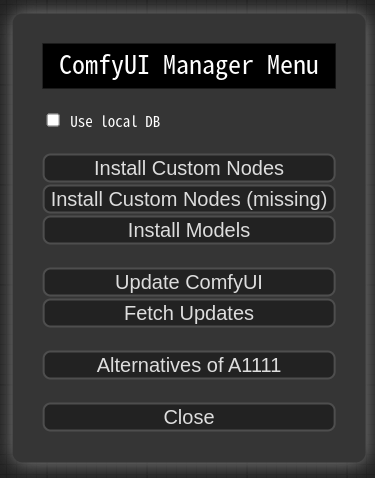
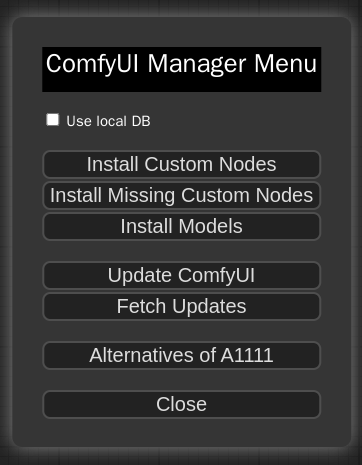
add filter feature improve missing node detector

diff --git a/js/comfyui-manager.js b/js/comfyui-manager.js
@@ -238,6 +238,14 @@ class CustomNodesInstaller extends ComfyDialog {
 		for(let i in this.grid_rows) {
 			let data = this.grid_rows[i].data;
 			let content = data.author.toLowerCase() + data.description.toLowerCase() + data.title.toLowerCase();
+
+			if(this.filter && this.filter != '*') {
+				if(this.filter != data.installed) {
+					this.grid_rows[i].control.style.display = 'none';
+					continue;
+				}
+			}
+
 			if(keyword == "")
 				this.grid_rows[i].control.style.display = null;
 			else if(content.includes(keyword)) {
@@ -252,6 +260,17 @@ class CustomNodesInstaller extends ComfyDialog {
 	async filter_missing_node(data) {
 		const mappings = await getCustomnodeMappings();
 
+
+		// build regex->url map
+		const regex_to_url = [];
+		for (let i in data) {
+			if(data[i]['nodename_pattern']) {
+				let item = {regex: new RegExp(data[i].nodename_pattern), url: data[i].files[0]};
+				regex_to_url.push(item);
+			}
+		}
+
+		// build name->url map
 		const name_to_url = {};
 		for (const url in mappings) {
 			const names = mappings[url];
@@ -273,6 +292,13 @@ class CustomNodesInstaller extends ComfyDialog {
 				const url = name_to_url[node_type];
 				if(url)
 					missing_nodes.add(url);
+				else {
+					for(let j in regex_to_url) {
+						if(regex_to_url[j].regex.test(node_type)) {
+							missing_nodes.add(regex_to_url[j].url);
+						}
+					}
+				}
 			}
 		}
 
@@ -491,29 +517,71 @@ class CustomNodesInstaller extends ComfyDialog {
 		this.element.appendChild(panel);
 	}
 
+	createFilterCombo() {
+		let combo = document.createElement("select");
+
+		combo.style.cssFloat = "left";
+		combo.style.fontSize = "14px";
+		combo.style.padding = "4px";
+		combo.style.background = "black";
+		combo.style.marginLeft = "2px";
+		combo.style.width = "199px";
+		combo.id = `combo-manger-filter`;
+		combo.style.borderRadius = "15px";
+
+		let items =
+			[
+				{ value:'*', text:'Filter: all' },
+				{ value:'Disabled', text:'Filter: disabled' },
+				{ value:'Update', text:'Filter: update' },
+				{ value:'True', text:'Filter: installed' },
+				{ value:'False', text:'Filter: not-installed' },
+			];
+
+		items.forEach(item => {
+			const option = document.createElement("option");
+			option.value = item.value;
+			option.text = item.text;
+			combo.appendChild(option);
+		});
+
+		let self = this;
+		combo.addEventListener('change', function(event) {
+			self.filter = event.target.value;
+			self.apply_searchbox();
+		});
+
+		return combo;
+	}
+
 	createHeaderControls() {
+		let self = this;
 		this.search_box = $el('input', {type:'text', id:'manager-customnode-search-box', placeholder:'input search keyword', value:this.search_keyword}, []);
 		this.search_box.style.height = "25px";
 		this.search_box.onkeydown = (event) => {
 				if (event.key === 'Enter') {
-					this.search_keyword = this.search_box.value;
-					this.apply_searchbox();
+					self.search_keyword = self.search_box.value;
+					self.apply_searchbox();
 				}
 				if (event.key === 'Escape') {
-					this.search_keyword = this.search_box.value;
-					this.search_box.value = '';
-					this.apply_searchbox();
+					self.search_keyword = self.search_box.value;
+					self.apply_searchbox();
 				}
 			};
+
 
 		let search_button = document.createElement("button");
 		search_button.innerHTML = "Search";
 		search_button.onclick = () => {
-			this.apply_searchbox();
+			self.search_keyword = self.search_box.value;
+			self.apply_searchbox();
 		};
 		search_button.style.display = "inline-block";
 
-		let cell = $el('td', {width:'100%'}, [this.search_box, '  ', search_button]);
+		let filter_control = this.createFilterCombo();
+		filter_control.style.display = "inline-block";
+
+		let cell = $el('td', {width:'100%'}, [filter_control, this.search_box, '  ', search_button]);
 		let search_control = $el('table', {width:'100%'},
 				[
 					$el('tr', {}, [cell])
@@ -521,13 +589,14 @@ class CustomNodesInstaller extends ComfyDialog {
 			);
 
 		cell.style.textAlign = "right";
+
 		this.element.appendChild(search_control);
 	}
 
 	async createBottomControls() {
 		let close_button = document.createElement("button");
 		close_button.innerHTML = "Close";
-		close_button.onclick = () => { this.search_keyword = ''; this.close(); }
+		close_button.onclick = () => { this.close(); }
 		close_button.style.display = "inline-block";
 
 		this.message_box = $el('div', {id:'custom-installer-message'}, [$el('br'), '']);
@@ -588,6 +657,14 @@ class AlternativesInstaller extends ComfyDialog {
 			let data1 = this.grid_rows[i].data;
 			let data2 = data1.custom_node;
 			let content = data1.tags.toLowerCase() + data1.description.toLowerCase() + data2.author.toLowerCase() + data2.description.toLowerCase() + data2.title.toLowerCase();
+
+			if(this.filter && this.filter != '*') {
+				if(this.filter != data2.installed) {
+					this.grid_rows[i].control.style.display = 'none';
+					continue;
+				}
+			}
+
 			if(keyword == "")
 				this.grid_rows[i].control.style.display = null;
 			else if(content.includes(keyword)) {
@@ -819,29 +896,70 @@ class AlternativesInstaller extends ComfyDialog {
 		this.element.appendChild(panel);
 	}
 
+	createFilterCombo() {
+		let combo = document.createElement("select");
+
+		combo.style.cssFloat = "left";
+		combo.style.fontSize = "14px";
+		combo.style.padding = "4px";
+		combo.style.background = "black";
+		combo.style.marginLeft = "2px";
+		combo.style.width = "199px";
+		combo.id = `combo-manger-filter`;
+		combo.style.borderRadius = "15px";
+
+		let items =
+			[
+				{ value:'*', text:'Filter: all' },
+				{ value:'Disabled', text:'Filter: disabled' },
+				{ value:'Update', text:'Filter: update' },
+				{ value:'True', text:'Filter: installed' },
+				{ value:'False', text:'Filter: not-installed' },
+			];
+
+		items.forEach(item => {
+			const option = document.createElement("option");
+			option.value = item.value;
+			option.text = item.text;
+			combo.appendChild(option);
+		});
+
+		let self = this;
+		combo.addEventListener('change', function(event) {
+			self.filter = event.target.value;
+			self.apply_searchbox();
+		});
+
+		return combo;
+	}
+
 	createHeaderControls() {
+		let self = this;
 		this.search_box = $el('input', {type:'text', id:'manager-alternode-search-box', placeholder:'input search keyword', value:this.search_keyword}, []);
 		this.search_box.style.height = "25px";
 		this.search_box.onkeydown = (event) => {
 				if (event.key === 'Enter') {
-					this.search_keyword = this.search_box.value;
-					this.apply_searchbox();
+					self.search_keyword = self.search_box.value;
+					self.apply_searchbox();
 				}
 				if (event.key === 'Escape') {
-					this.search_keyword = this.search_box.value;
-					this.search_box.value = '';
-					this.apply_searchbox();
+					self.search_keyword = self.search_box.value;
+					self.apply_searchbox();
 				}
 			};
 
 		let search_button = document.createElement("button");
 		search_button.innerHTML = "Search";
 		search_button.onclick = () => {
-			this.apply_searchbox();
+			self.search_keyword = self.search_box.value;
+			self.apply_searchbox();
 		};
 		search_button.style.display = "inline-block";
 
-		let cell = $el('td', {width:'100%'}, [this.search_box, '  ', search_button]);
+		let filter_control = this.createFilterCombo();
+		filter_control.style.display = "inline-block";
+
+		let cell = $el('td', {width:'100%'}, [filter_control, this.search_box, '  ', search_button]);
 		let search_control = $el('table', {width:'100%'},
 				[
 					$el('tr', {}, [cell])
@@ -925,6 +1043,14 @@ class ModelInstaller extends ComfyDialog {
 		for(let i in this.grid_rows) {
 			let data = this.grid_rows[i].data;
 			let content = data.name.toLowerCase() + data.type.toLowerCase() + data.base.toLowerCase() + data.description.toLowerCase();
+
+			if(this.filter && this.filter != '*') {
+				if(this.filter != data.installed) {
+					this.grid_rows[i].control.style.display = 'none';
+					continue;
+				}
+			}
+
 			if(keyword == "")
 				this.grid_rows[i].control.style.display = null;
 			else if(content.includes(keyword)) {
@@ -945,8 +1071,15 @@ class ModelInstaller extends ComfyDialog {
 		}
 
 		await this.createHeaderControls();
+
+		if(this.search_keyword) {
+			this.search_box.value = this.search_keyword;
+		}
+
 		await this.createGrid();
 		await this.createBottomControls();
+
+		this.apply_searchbox(this.data);
 	}
 
 	updateMessage(msg) {
@@ -1075,29 +1208,68 @@ class ModelInstaller extends ComfyDialog {
 		this.element.appendChild(panel);
 	}
 
+	createFilterCombo() {
+		let combo = document.createElement("select");
+
+		combo.style.cssFloat = "left";
+		combo.style.fontSize = "14px";
+		combo.style.padding = "4px";
+		combo.style.background = "black";
+		combo.style.marginLeft = "2px";
+		combo.style.width = "199px";
+		combo.id = `combo-manger-filter`;
+		combo.style.borderRadius = "15px";
+
+		let items =
+			[
+				{ value:'*', text:'Filter: all' },
+				{ value:'True', text:'Filter: installed' },
+				{ value:'False', text:'Filter: not-installed' },
+			];
+
+		items.forEach(item => {
+			const option = document.createElement("option");
+			option.value = item.value;
+			option.text = item.text;
+			combo.appendChild(option);
+		});
+
+		let self = this;
+		combo.addEventListener('change', function(event) {
+			self.filter = event.target.value;
+			self.apply_searchbox();
+		});
+
+		return combo;
+	}
+
 	createHeaderControls() {
+		let self = this;
 		this.search_box = $el('input', {type:'text', id:'manager-model-search-box', placeholder:'input search keyword', value:this.search_keyword}, []);
 		this.search_box.style.height = "25px";
 		this.search_box.onkeydown = (event) => {
 				if (event.key === 'Enter') {
-					this.search_keyword = this.search_box.value;
-					this.apply_searchbox();
+					self.search_keyword = self.search_box.value;
+					self.apply_searchbox();
 				}
 				if (event.key === 'Escape') {
-					this.search_keyword = this.search_box.value;
-					this.search_box.value = '';
-					this.apply_searchbox();
+					self.search_keyword = self.search_box.value;
+					self.apply_searchbox();
 				}
 			};
 
 		let search_button = document.createElement("button");
 		search_button.innerHTML = "Search";
 		search_button.onclick = () => {
-			this.apply_searchbox();
+			self.search_keyword = self.search_box.value;
+			self.apply_searchbox();
 		};
 		search_button.style.display = "inline-block";
 
-		let cell = $el('td', {width:'100%'}, [this.search_box, '  ', search_button]);
+		let filter_control = this.createFilterCombo();
+		filter_control.style.display = "inline-block";
+
+		let cell = $el('td', {width:'100%'}, [filter_control, this.search_box, '  ', search_button]);
 		let search_control = $el('table', {width:'100%'},
 				[
 					$el('tr', {}, [cell])
@@ -1179,7 +1351,7 @@ class ManagerMenuDialog extends ComfyDialog {
 
 				$el("button", {
 					type: "button",
-					textContent: "Install Custom Nodes (missing)",
+					textContent: "Install Missing Custom Nodes",
 					onclick:
 						() => {
 							if(!CustomNodesInstaller.instance)

diff --git a/__init__.py b/__init__.py
@@ -16,7 +16,7 @@ sys.path.append('../..')
 from torchvision.datasets.utils import download_url
 
 # ensure .js
-print("### Loading: ComfyUI-Manager (V0.10)")
+print("### Loading: ComfyUI-Manager (V0.11)")
 
 comfy_path = os.path.dirname(folder_paths.__file__)
 custom_nodes_path = os.path.join(comfy_path, 'custom_nodes')
